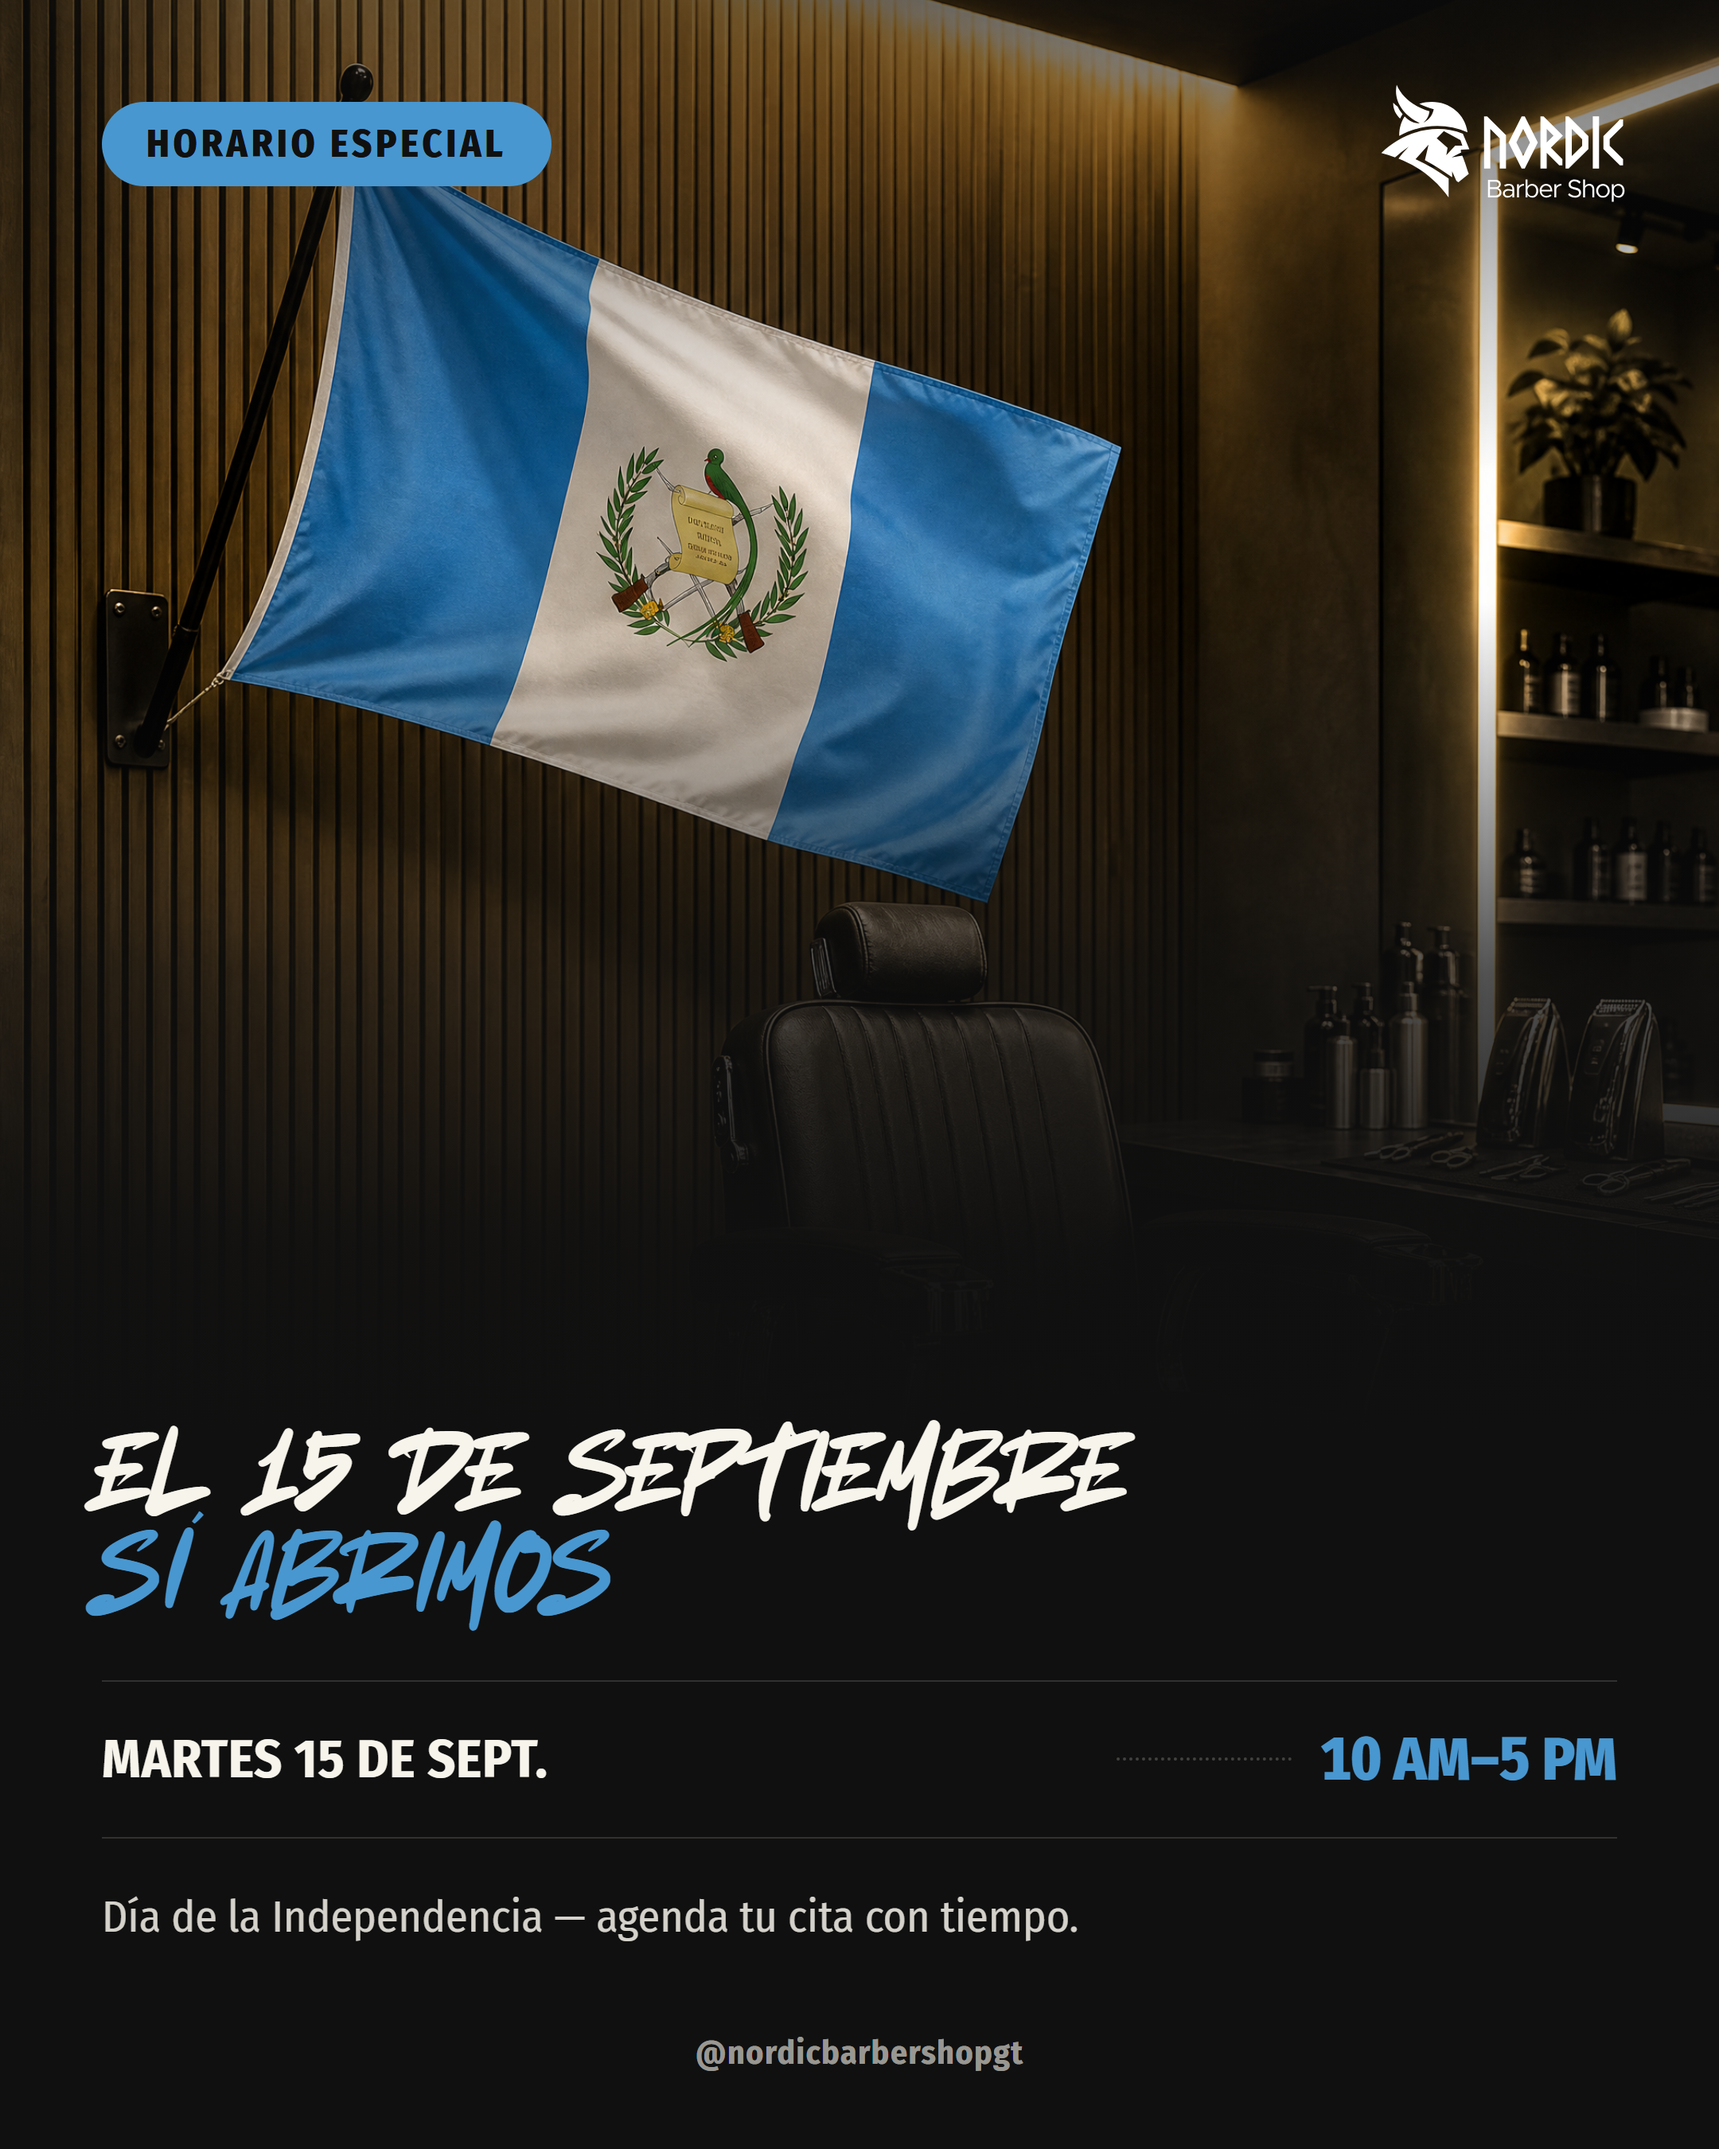
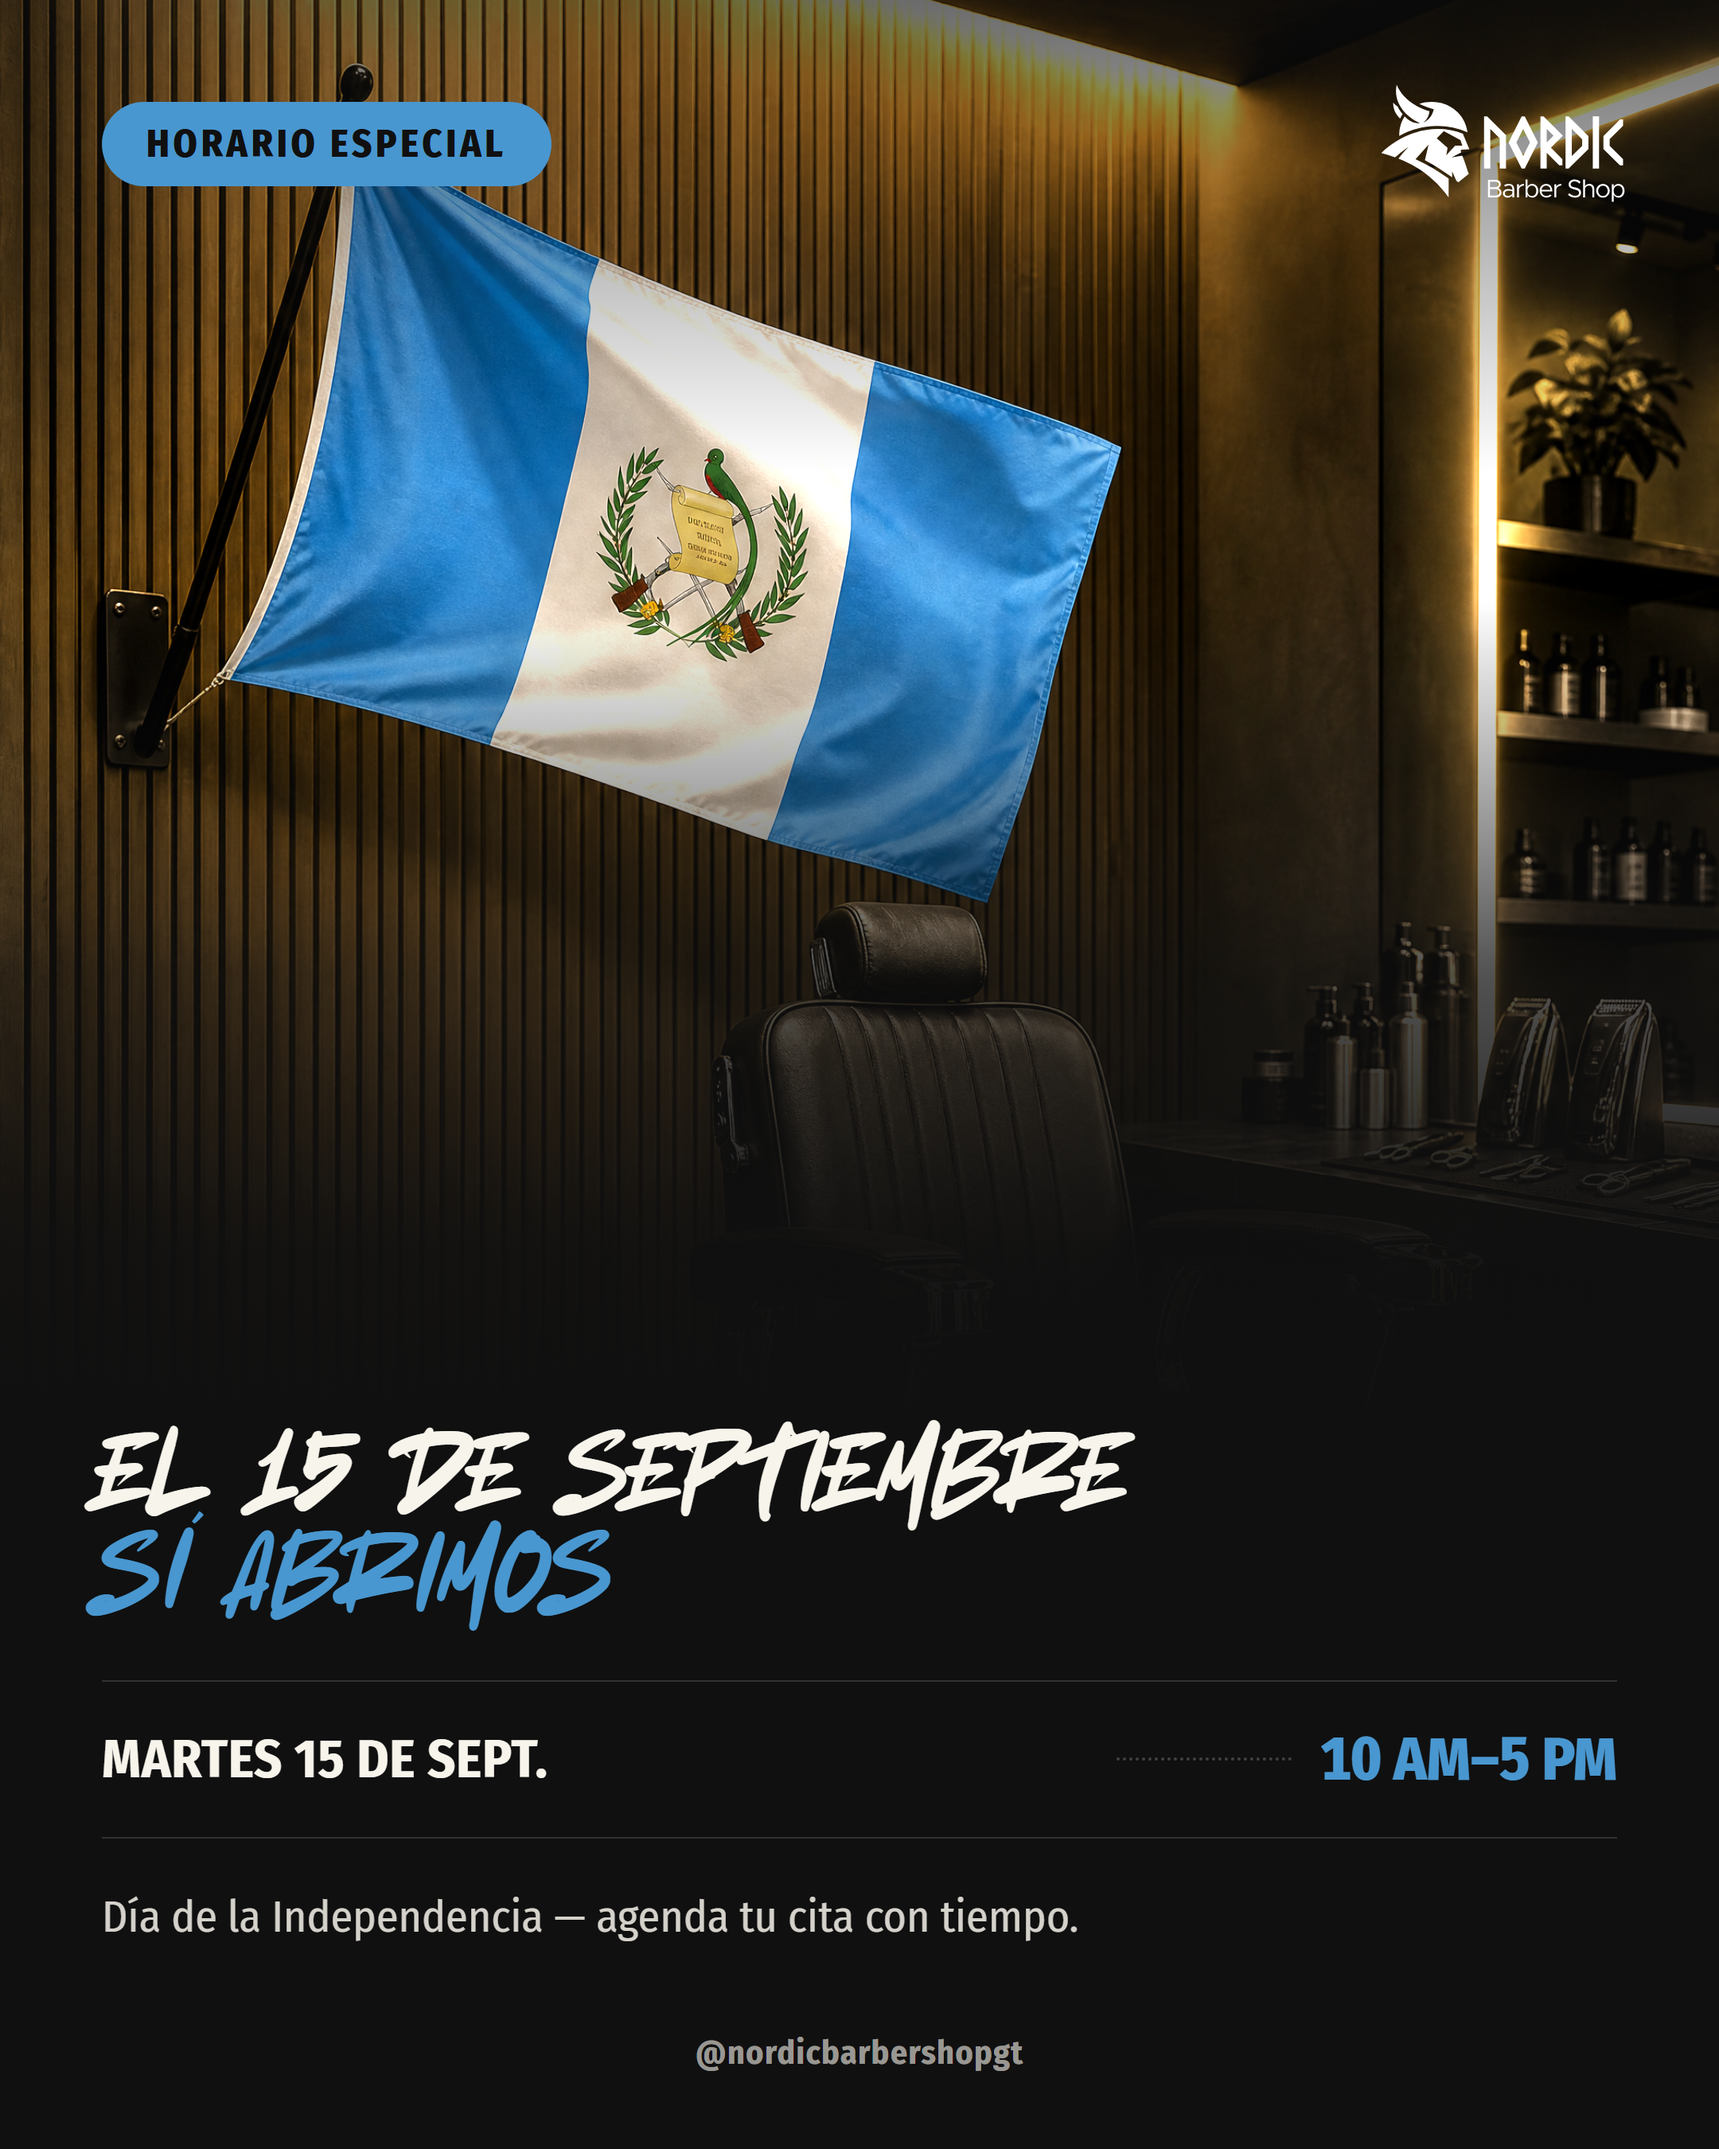
Brighten horario-especial-15-septiembre background photo
User asked for the image to read a bit lighter. Added
filter:brightness(1.28) saturate(1.05) on the .bg <img> layer only
(before the text scrim), so the room/flag/chair read brighter while
copy legibility stays unaffected. Re-rendered both PNGs.

diff --git a/posts/instagram/horario-especial-15-septiembre/index-story.html b/posts/instagram/horario-especial-15-septiembre/index-story.html
@@ -50,6 +50,7 @@
     width:100%;height:100%;
     object-fit:cover;
     object-position:50% 15%;
+    filter:brightness(1.28) saturate(1.05);
   }
 
   /* Scrim sutil arriba, fuerte abajo */

diff --git a/posts/instagram/horario-especial-15-septiembre/index.html b/posts/instagram/horario-especial-15-septiembre/index.html
@@ -50,6 +50,7 @@
     width:100%;height:100%;
     object-fit:cover;
     object-position:50% 22%;
+    filter:brightness(1.28) saturate(1.05);
   }
 
   /* Scrim sutil arriba, fuerte abajo */
